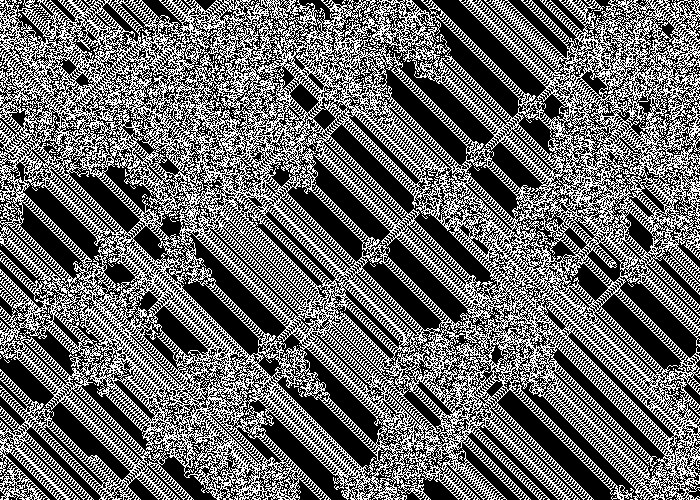
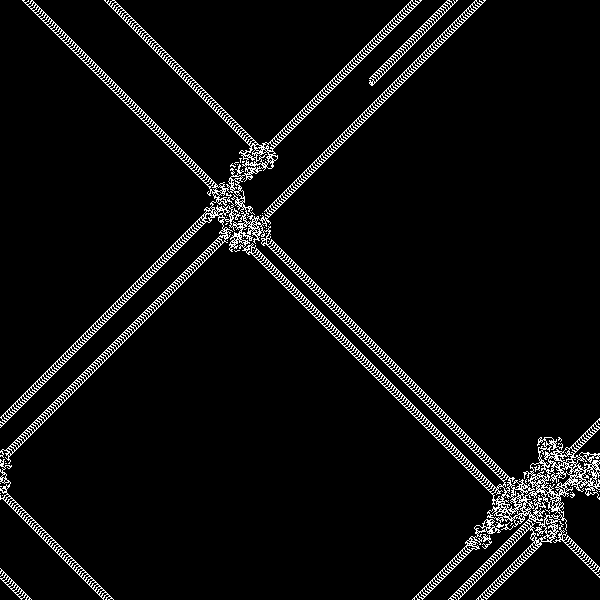
wpisałam domyślne dane z dokumentacji

diff --git a/mroovka_1_8/main.c b/mroovka_1_8/main.c
@@ -18,10 +18,10 @@ int main ( int argc, char* argv[] )
                 return EXIT_FAILURE;
         }
 
-	int w = argc > 1 ? atoi ( argv[1] ) : 20;
-	int k = argc > 2 ? atoi ( argv[2] ) : 20;
-	int kroki = argc > 3 ? atoi ( argv[3] ) : 100;
-	int ilosc = argc > 4 ? atoi ( argv[4] ) : 3;
+	int w = argc > 1 ? atoi ( argv[1] ) : 600;
+	int k = argc > 2 ? atoi ( argv[2] ) : 600;
+	int kroki = argc > 3 ? atoi ( argv[3] ) : 200000;
+	int ilosc = argc > 4 ? atoi ( argv[4] ) : 1;
 
 	macierz_t plansza = inicjuj( w, k );
         mrowka_t antek = malloc( sizeof(antek) );
